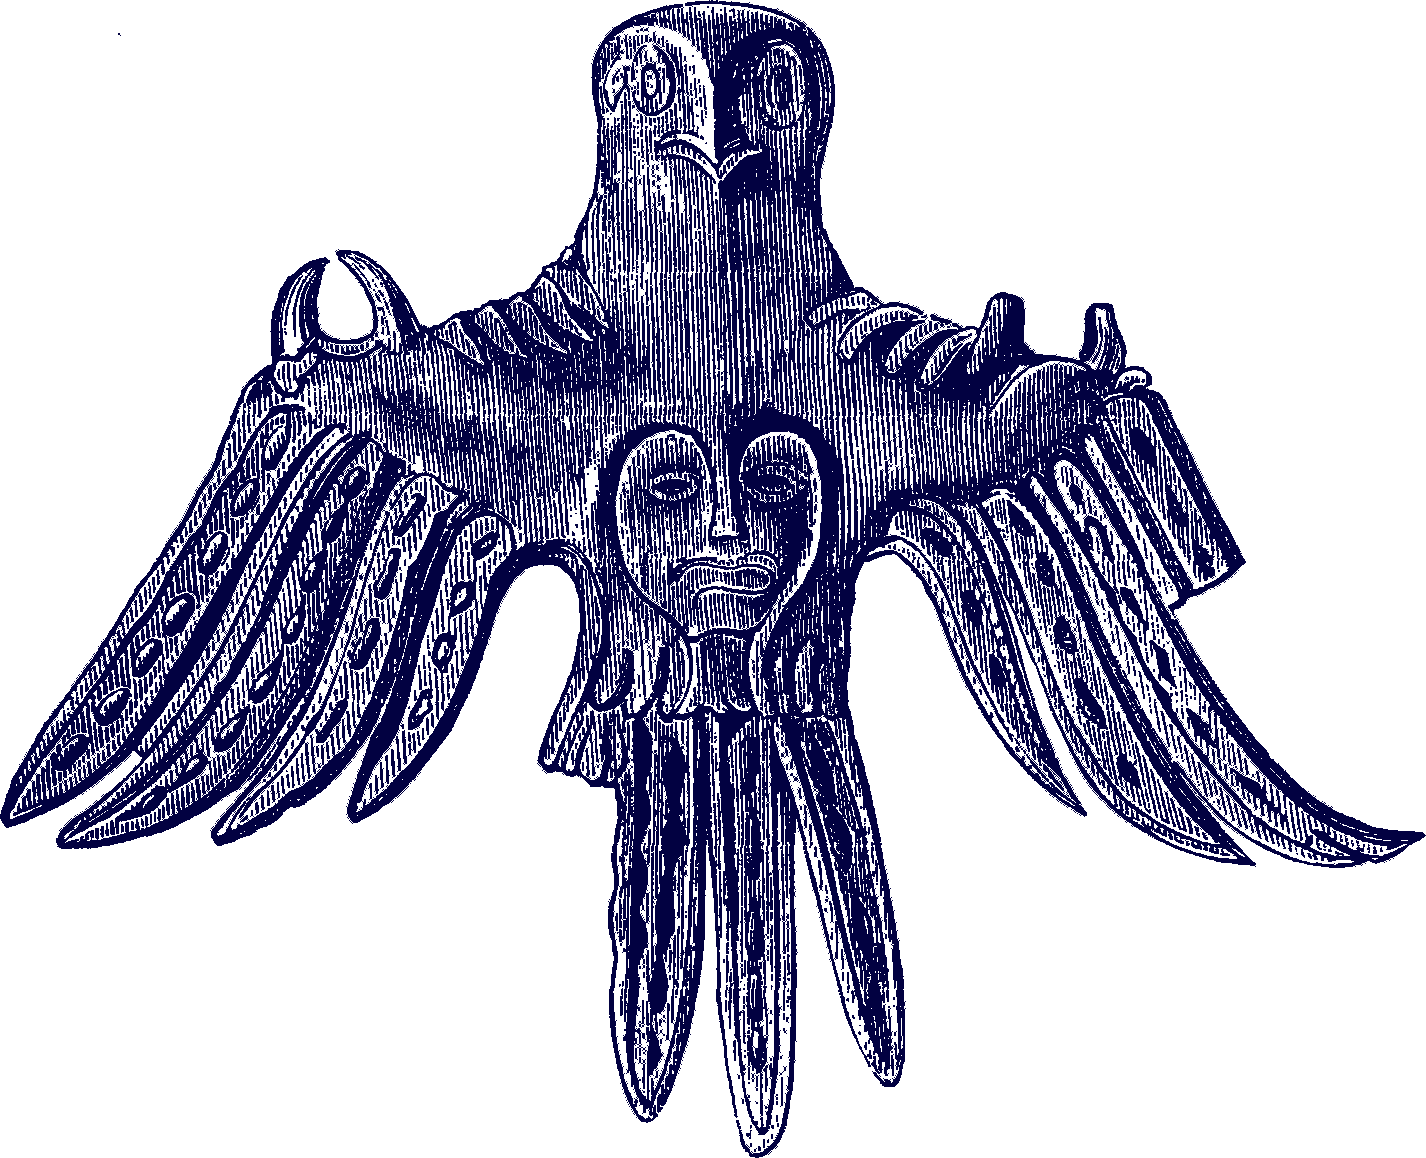
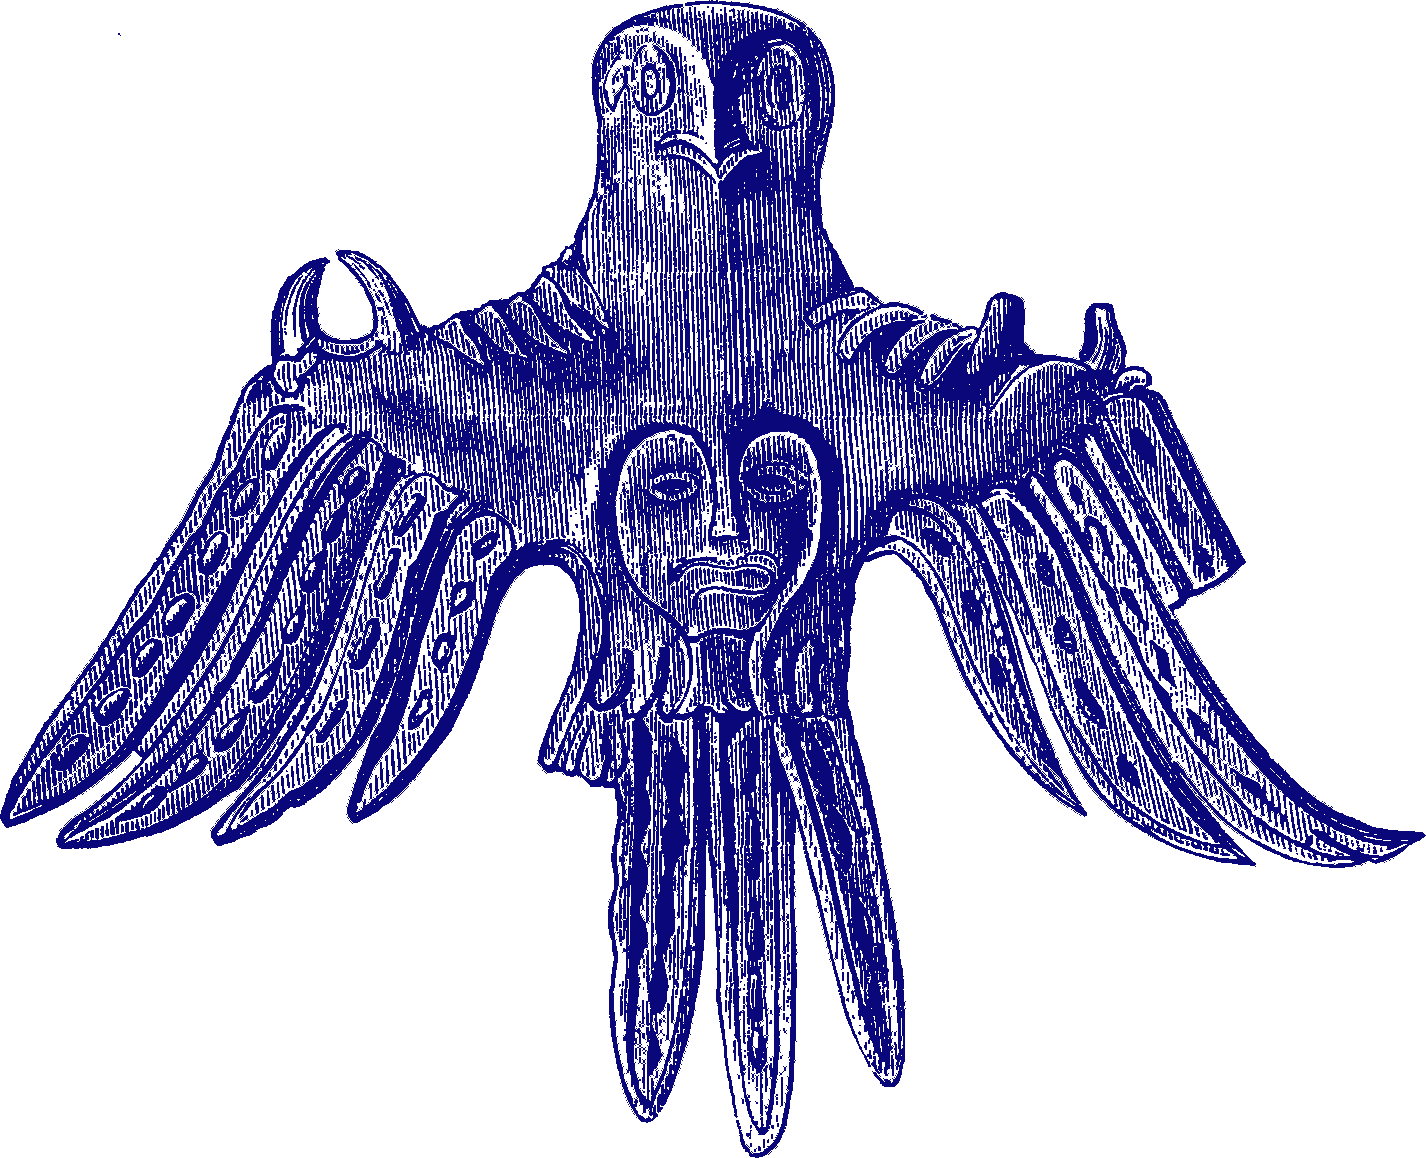
Make Finnish chapter image and color a lighter blue

Changed region(s): [[0.0, 0.0, 1.0, 1.0]]

diff --git a/tex/unilaiva-songbook_content_include_part2.tex b/tex/unilaiva-songbook_content_include_part2.tex
@@ -14,7 +14,7 @@
   \definecolor{englishcolor}{rgb}{.1725,.8588,.1725}
   \definecolor{sanskritcolor}{rgb}{1,.996,0}
   \definecolor{othercolor}{rgb}{.2235,.0941,.0352}
-  \definecolor{finnishcolor}{rgb}{.0078,.0039,.2549}
+  \definecolor{finnishcolor}{rgb}{.0352,.0274,.4665}
 
   % Sets chapter number; will be incremented by one at each \mainchapter,
   % \songchapter or \chapter:
